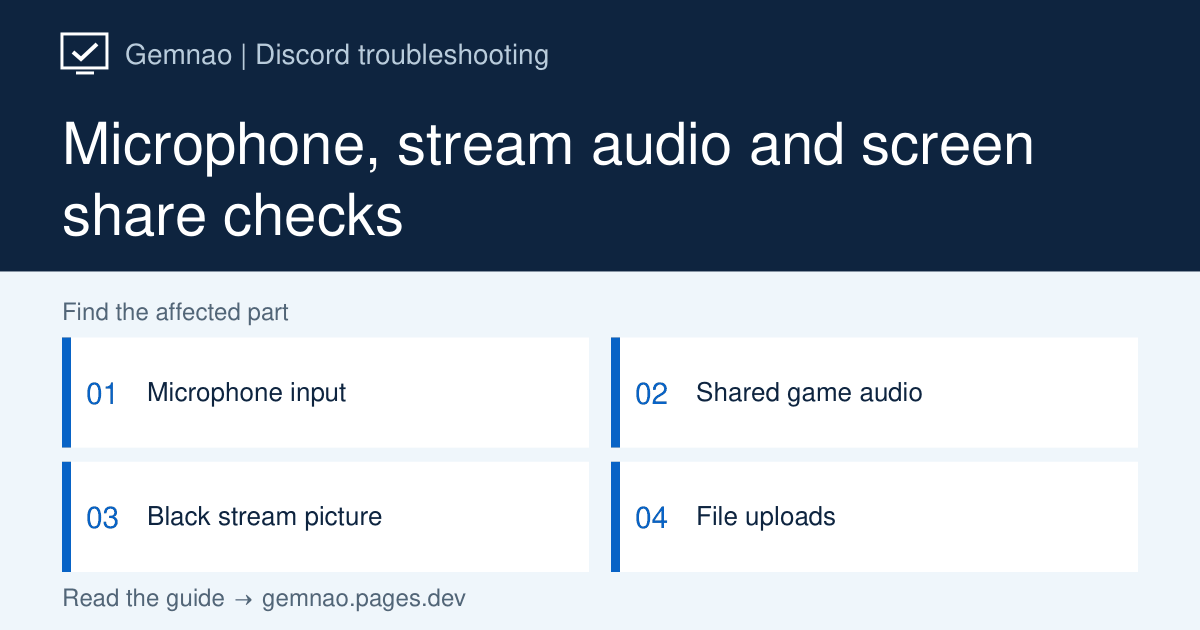
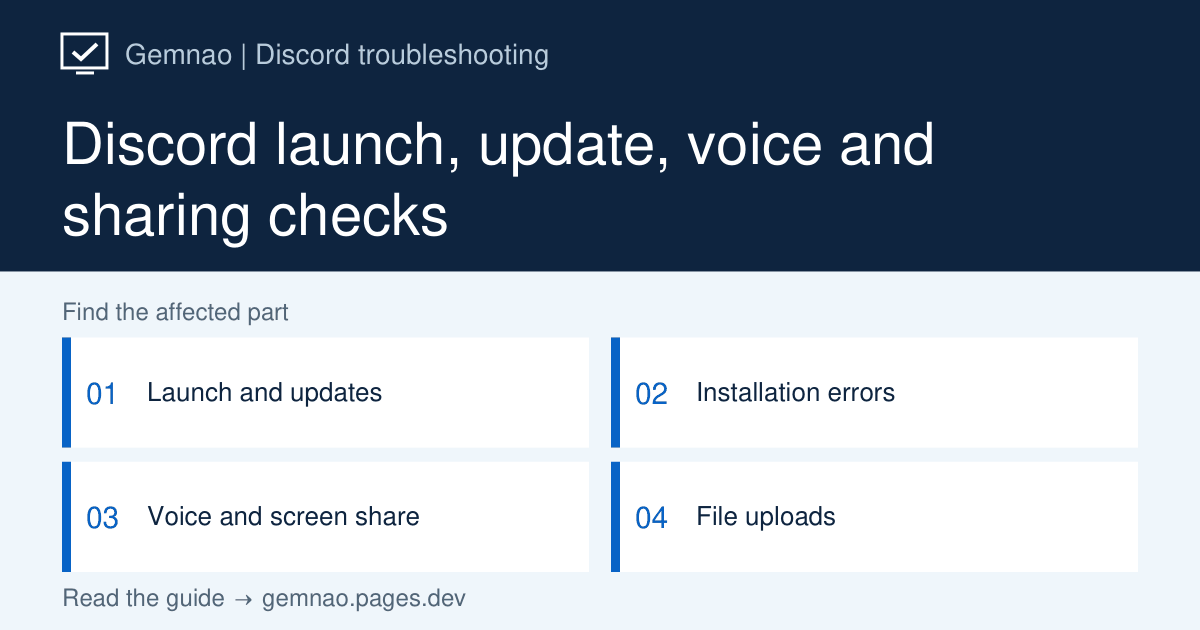
Add English Discord launch, loading and installer guides

diff --git a/lib/localized/discord-launch-en.ts b/lib/localized/discord-launch-en.ts
@@ -1,0 +1,200 @@
+import type { LocalizedArticle } from './types';
+const source = (id:string,label:string) => ({label,url:`https://support.discord.com/hc/en-us/articles/${id}`});
+const general=source('31623498041623-Discord-Troubleshooting-Guide','Discord: general troubleshooting and Cache location');
+const installer=source('209099387--Windows-Installer-Errors','Discord: Windows installer errors');
+const corrupt=source('115004307527--Windows-Corrupt-Installation','Discord: corrupt Windows installation');
+const status={label:'Discord Status: official service incidents',url:'https://discordstatus.com/'};
+const download={label:'Discord: official downloads',url:'https://discord.com/download'};
+const support={label:'Discord: contact support',url:'https://support.discord.com/hc/en-us/requests/new'};
+const step=(n:number,title:string,summary:string,actions:string[],note?:string)=>({id:`cause-${n}`,title,summary,time:'Compare one change before continuing',actions,...(note?{note}:{})});
+const row=(symptom:string,cause:string,n:number)=>({symptom,cause,stepId:`cause-${n}`});
+const link=(slug:string,label:string)=>({href:`/en/discord/${slug}`,label});
+const base={locale:'en' as const,gameSlug:'discord',gameName:'Discord',checkedAt:'2026-10-18',sourcePolicy:'English adaptation of the Japanese guide, retaining its comparison sequence, restoration and stopping conditions. Official Discord documentation was reviewed; the comparisons and log-reading examples are editorial guidance, not a claim of a reproduced fault or a guaranteed repair. These Windows instructions concern the standard desktop client.'};
+export const discordLaunchEn: LocalizedArticle[] = [
+{
+ ...base,slug:'not-opening',title:'Discord Will Not Open on Windows: No Response, Immediate Exit or Gray Screen',shortTitle:'Discord will not open',
+ description:'Separate a hidden Discord process, an app-only launch fault, connection trouble and login errors. Preserve Cache before comparing and prepare sign-in access before reinstalling.',
+ lead:'For the Windows desktop app: clicking Discord does nothing, a window closes immediately, or the logo/gray screen never reaches your conversations.',
+ summary:'Fully quit Discord and launch once from Start. Compare actual conversations in the browser on the same PC. If only the app fails, preserve and rename its Cache folder before considering a reinstall. Follow the separate update or installation guide when an explicit error names that stage.',
+ quickFacts:[{label:'First check',value:'Quit remaining Discord processes and launch once from Start'},{label:'Useful comparison',value:'The same account’s conversations load at discord.com/app'},{label:'Before local reset',value:'Keep sign-in access and a recoverable copy of the targeted data'}],
+ diagnosis:[row('No window, but Discord remains in Task Manager','Quit the tray app and remaining identified Discord processes.',1),row('Window opens briefly, then the process disappears','Record the error/time and compare the browser.',2),row('Logo or gray screen never progresses','Test conversations in the browser; compare loading-specific checks.',2),row('Browser works; only the app fails','Preserve and rename Cache after fully quitting.',3),row('Neither app nor browser loads conversations','Check service status, other sites and login errors before uninstalling.',2),row('Update Failed or Installation has failed appears','Use the guide for the exact stage and message.',5),row('Security notification appears at launch','Inspect its time, file and detection instead of guessing.',4)],
+ steps:[
+ step(1,'Fully quit and check a fresh launch route','Closing a window can leave Discord running. A Start-menu launch also helps separate an old shortcut.',[
+ 'If Discord appears in the Windows notification area, including hidden icons, right-click it and quit. Warn anyone in an active call/stream first because quitting disconnects it.',
+ 'Open Task Manager with Ctrl+Shift+Esc. Under Processes, end remaining entries you have identified as Discord.',
+ 'Once Discord is gone, wait about 30 seconds, find Discord in Start and open it once. Check whether conversations load, not just whether a window appears.',
+ 'If Start works, use that route and replace the obsolete shortcut. Otherwise save work, restart Windows, try once again and continue to Step 2.',
+ ],'Do not end every Update.exe or similarly named process by name alone. This initial check targets entries positively identified as Discord.'),
+ step(2,'Compare the browser, connection and sign-in stage','A public landing page loading is not the same as the account’s conversations loading.',[
+ 'Open https://discord.com/app in Edge or Chrome on the same PC. Verify the official domain before signing in, then inspect the conversation list.',
+ 'If conversations open, the browser can provide temporary access while you investigate the desktop app in Step 3.',
+ 'If the browser also stalls, check Discord Status and try another website. When a relevant incident is reported, recheck after recovery.',
+ 'If other sites fail too, investigate the connection first. If only Discord fails, an empty status page still does not prove the PC is the cause.',
+ 'If the failure is at email, password or authentication-code entry, use the login guide. For a persistent logo or gray screen, also use the loading-stuck comparison.',
+ ],'A working browser narrows the next checks; it does not prove the desktop Cache is corrupt.'),
+ step(3,'Preserve Cache and compare only an app-specific failure','Renaming the documented Cache folder keeps the comparison reversible. It is not a full data-folder or account reset.',[
+ 'Fully quit Discord as in Step 1. Press Windows+R, enter %APPDATA%/discord and open it.',
+ 'Rename only Cache to a unique name such as Cache.backup-20261018, using your work date. If it is absent, do not create it or target an unrelated folder.',
+ 'Launch Discord and check conversations. If it works, quit and reopen to confirm another normal launch.',
+ 'To restore, quit Discord, move or rename any newly generated Cache separately, then return the preserved folder to the exact name Cache. Do not overwrite or mix the contents.',
+ 'If renaming fails, check for a remaining Discord process and retry after a restart. If access is still denied, record it and continue to Step 4 without changing ownership or forcing deletion.',
+ ],'Confirm access to your email, password and two-factor authentication first in case sign-in is required. Server membership/messages and local settings/session state are different. Keep the backup private until stable operation is confirmed.'),
+ step(4,'Inspect a matching block notification','Failure to open is not proof that security software blocked the app.',[
+ 'In Windows Security → Virus & threat protection → Protection history, look for events near the failed launch time. For another security product, inspect its own history.',
+ 'Record the affected path, detection and action. Do not release quarantine or add exclusions merely because the filename contains Discord.',
+ 'If the installer came from an unofficial site, stop using it and obtain the official download. If the official file is detected too, consult the security provider or administrator.',
+ 'If there is no matching record and Cache preservation made no difference, continue to Step 5. On a managed PC, check installation/execution permission with its administrator.',
+ ]),
+ step(5,'Prepare sign-in access before reinstalling','Use this later step when the app still fails after the earlier comparisons. Follow a specific error guide if the failed stage changes.',[
+ 'Confirm email/password and two-factor authentication or backup-code access. Keep an already signed-in phone or other device signed in.',
+ 'Uninstall Discord through Windows Settings → Apps → Installed apps, or Apps & features on Windows 10.',
+ 'With Discord closed, use Windows+R → %APPDATA% and then %LOCALAPPDATA% to inspect the remaining Discord folder in each location.',
+ 'If local data/settings need preserving, copy each target to a separate clearly named private location first. Following the official reinstall procedure, remove only the remaining Discord folders; never the entire AppData or Local folders.',
+ 'Restart Windows and reinstall from https://discord.com/download. Sign in, confirm conversations open, then quit and reopen once.',
+ 'For Update Failed, use the update guide; for Installation has failed, use the installer guide. If the app still closes immediately, record the crash conditions for the separate crashing guide.',
+ ],'Returning the entire old data folder can also return the fault. Reinstallation is not account/server deletion, but local preferences and sign-in state may need to be rebuilt.'),
+ ],
+ avoid:['Do not repeatedly launch overlapping copies or kill unrelated updater processes.','Do not reset all AppData, force ownership changes or disable security protection to bypass an unexplained block.'],
+ cautions:['For support, record the visible screen/error, time, browser result, each comparison and Windows version from winver.','Keep original backups/logs private; redact email addresses, Windows usernames and DM content in shared copies.','A working website alone is not a completed sign-in or conversation comparison.'],
+ faqs:[{question:'Should I run Discord as administrator first?',answer:'Start with a full quit and browser comparison. Official guidance mentions elevated execution for some cases, but it is not a universal fix. Limit it to an identified permission issue and consult the administrator on a managed PC.'},{question:'Does moving Cache delete messages or my account?',answer:'It is not an account, server-membership or sent-message deletion. Local session behavior may still change, so ensure you can sign in again before working on app data.'},{question:'Can I keep communicating while the app fails?',answer:'If the same account’s conversations work in the browser, use that temporarily. Calls also need the browser’s microphone permission and appropriate device settings.'},{question:'What if there is no Cache folder?',answer:'Skip that change. Do not create one or delete a different app’s similarly named data. Record its absence and continue using the browser comparison and exact error.'}],
+ sources:[general,installer,status],
+ related:[link('loading-stuck','Discord stuck loading'),link('update-failed','Update Failed and retry loops'),link('installation-failed','Installation has failed'),{href:'/discord/crashing',label:'Discord closes or crashes (Japanese)'},{href:'/discord/login-error',label:'Discord login errors (Japanese)'}],
+},
+{
+ ...base,slug:'loading-stuck',title:'Discord Stuck Loading: Compare the Browser Before Resetting the Windows App',shortTitle:'Discord stuck loading',
+ description:'Separate a logo or gray loading screen from account and connection failures. Compare conversations in the browser, fully quit the app, and preserve Cache before resetting it.',
+ lead:'For the Windows desktop app when the logo/spinner or a gray screen never reaches the server/chat list, including a stall after signing in.',
+ summary:'On the same PC and connection, check whether the same account’s conversations open in the browser. If the browser works, fully quit and reopen the app before preserving Cache. If both fail, check incidents and connectivity first. Screen color alone does not identify the cause.',
+ quickFacts:[{label:'Compare actual conversations',value:'A login screen or landing page alone is not enough'},{label:'Only the app fails',value:'Fully quit, restart, then compare preserved Cache if needed'},{label:'Both fail',value:'Check incidents and the same PC on another permitted connection'}],
+ diagnosis:[row('Logo stalls; browser conversations work','Does a complete app quit resolve it?',2),row('Gray screen; browser conversations work','Compare after a full quit, regardless of screen color.',2),row('Only the app still stalls after restart','Preserve Cache before comparing.',4),row('Neither app nor browser opens conversations','Check incidents, other sites and another connection.',3),row('App works; browser stalls','Compare a private window or another browser.',1),row('Update Failed or installation-corruption message','Record the exact message and use its specific guide.',5)],
+ steps:[
+ step(1,'Compare the same account in the browser','This tests a usable Discord session from the same connection, not the underlying reason for an app-only stall.',[
+ 'On the affected PC, open https://discord.com/app and, where possible, sign in to the same account as the desktop app. Verify the domain first.',
+ 'Check that the server/chat list loads and an existing conversation opens. A sign-in screen alone does not complete the comparison.',
+ 'If the browser works and only the app stalls, continue to Step 2. If both stall, continue to Step 3.',
+ 'If only the browser fails, compare a private window or another browser before inspecting extensions and stored site data. Keep sign-in access available before clearing anything.',
+ ],'If authentication prevents reaching conversations, mark the comparison unconfirmed. A gray screen or logo does not identify a particular cause.'),
+ step(2,'If the browser works, fully quit the app','Remaining background processes can survive a closed window.',[
+ 'In the Windows notification area, expand hidden icons if needed and quit Discord from its icon. This disconnects any call or stream.',
+ 'Open Task Manager with Ctrl+Shift+Esc and end remaining identified Discord processes.',
+ 'Reopen once and check the chat list. If normal loading returns, stop making changes.',
+ 'If it still stalls, save work and restart Windows. If only the app remains affected afterward, continue to Step 4.',
+ ]),
+ step(3,'If both fail, check the service and connection','Resetting app Cache does not isolate a failure shared by the browser.',[
+ 'Check https://discordstatus.com/ for a relevant incident and wait for recovery if one matches. No posted incident does not rule out an unreported or local connection issue.',
+ 'Open another website in the same browser. If other sites fail, inspect the PC’s Wi-Fi/router/connection first.',
+ 'If available and permitted, compare the same PC on another connection such as your own hotspot. Consider data costs, then return to the original network. Success only elsewhere points toward the original connection or restrictions.',
+ 'If other sites work but Discord does not, check Windows Settings → Time & language → Date & time for automatic time, and inspect VPN/proxy/firewall restrictions affecting Discord. Record existing settings and avoid changing multiple variables.',
+ ],'Do not bypass company/school restrictions or leave protection disabled. Ask the administrator about managed settings and restore any unhelpful personally controlled comparison.'),
+ step(4,'If only the app stalls, preserve Cache','Use this after a full app quit and Windows restart have failed to help the app-only symptom.',[
+ 'Fully quit Discord as in Step 2 and confirm its processes are gone. Keep email/password and two-factor authentication available in case another sign-in is needed.',
+ 'Open Windows+R and enter %APPDATA%/discord. Record this path and the intended backup name.',
+ 'Rename only Cache to an unused name such as Cache_before_loading_fix. If it is absent, do not create it or delete a different folder.',
+ 'Reopen and inspect conversations. To undo an unhelpful result, quit again, keep the newly generated Cache separately and restore the old folder’s exact name without mixing or overwriting contents.',
+ ],'This does not reset every file outside Cache. Keep the original private until testing is complete and distinguish it from the entire Discord settings folder.'),
+ step(5,'Follow explicit update or corruption errors','A named update/installation error needs its own comparison path.',[
+ 'Record the exact displayed error and time it appeared.',
+ 'For Update Failed, use the linked update-loop guide to compare update connectivity and processes.',
+ 'If installation corruption is explicitly reported, review Discord’s corrupt-installation instructions and the installer guide before reinstalling. Removing whole app-data folders is a different, wider operation than preserving Cache and requires sign-in preparation.',
+ ]),
+ ],
+ avoid:['Do not infer a cause from screen color or a working login page.','Do not delete the entire Discord folder as the first Cache test or disable network protection to bypass a restriction.'],
+ cautions:['If both clients still fail on another connection, retain the incident/login observations for support.','If only the app fails, include Windows version, exact error and full-quit/Cache results. Mark unavailable comparisons as unconfirmed.','Redact personal details in screenshots and keep preserved app data private.'],
+ faqs:[{question:'Do a logo screen and a gray screen need different fixes?',answer:'Their colors do not identify the cause. First compare actual browser conversations on the same PC. A browser-only success leads to app checks; failure in both leads to incident/connection checks.'},{question:'Does the browser login screen prove the desktop app is broken?',answer:'No. Reach the server/chat list and a conversation before treating it as a successful session. If sign-in fails, record the authentication error and leave the comparison unconfirmed.'},{question:'Will preserving Cache remove servers or messages?',answer:'This targets the Windows app’s Cache folder, not account or server/message deletion. Keep the preserved folder until testing finishes, and do not confuse it with the complete app-data directory.'}],
+ sources:[general,source('115001130052-Stuck-on-the-Main-Connecting-Screen','Discord: stuck on the connecting screen'),corrupt,status],
+ related:[link('update-failed','Update Failed comparisons'),link('installation-failed','Installation failures'),{href:'/discord/login-error',label:'Login errors (Japanese)'},link('not-opening','Discord will not open')],
+},
+{
+ ...base,slug:'update-failed',title:'Discord Update Failed or Retry Loop: Check Connectivity Before Reinstalling',shortTitle:'Update Failed and update loops',
+ description:'Compare the same PC’s browser, official download and another permitted connection. Identify Discord updater processes and prepare sign-in access before removing app remnants.',
+ lead:'For the standard Windows desktop client repeatedly showing Update Failed. Reaching a login screen means that update stage progressed; an authentication error needs separate checks.',
+ summary:'Check official incidents and actual browser conversations before deleting anything. Compare the official download and the same PC on another connection if available. If only the app still fails after a full quit/restart, reinstall only after confirming a usable official installer and sign-in access.',
+ quickFacts:[{label:'Browser works?',value:'This does not establish that update traffic also works'},{label:'Another connection helps?',value:'Investigate the original network; stop reinstall attempts'},{label:'Before cleanup',value:'Official installer available, recovery/sign-in ready, exact folders identified'}],
+ diagnosis:[row('A reported incident matches the timing/symptom','Pause local deletion and retry after recovery.',1),row('Browser works but update fails','Compare official installer retrieval and another connection.',2),row('Browser or download also fails','Inspect connection, VPN and block notifications first.',2),row('The same PC updates on another connection','Investigate the original network; no folder cleanup is needed.',2),row('Only the app fails on both connections','Fully quit identified Discord/updater processes.',3),row('Full quit fails; official download works','Prepare sign-in access before scoped cleanup.',4)],
+ steps:[
+ step(1,'Check incidents and browser conversations before deleting files','Record the update screen and time first. A working browser can also provide temporary access.',[
+ 'Check https://discordstatus.com/ for an incident matching the symptom and time. Retry after its recovery if applicable. No matching incident does not establish that every connection path works.',
+ 'On the same PC and connection, open https://discord.com/app. Confirm channels and existing conversations load after signing in, not just the public page.',
+ 'If the browser works, record it and continue to Step 2. Browser sessions and the updater use different operations; browser success is not proof of corrupt app files or healthy update traffic.',
+ 'Separate email/password/authentication-code failures from connection problems. Use the login guide and leave already signed-in devices signed in.',
+ ]),
+ step(2,'Compare the download and update on the same PC','Changing both device and network at once makes results harder to interpret.',[
+ 'Try saving the Windows installer from https://discord.com/download. Check that the download completes, not merely that its page opens. You do not need to run it or delete anything yet.',
+ 'If you use a personally controlled VPN, record its state and compare temporarily without it where permitted. Do not change managed workplace/school restrictions; ask the administrator.',
+ 'If available, connect the same PC to a permitted alternative such as your own hotspot and compare the update. Account for data use, then return to the original network/settings. If unavailable, record this comparison as unconfirmed.',
+ 'If updating works only on the other connection, stop reinstalling and inspect the original connection, VPN or restrictions. A browser-only success still leaves update-specific connectivity as a possibility.',
+ 'If only the app fails on both connections, continue to Step 3. If the official download also fails, retain the browser error or security notification and resolve access before removing the app.',
+ ],'Do not start with blanket security disablement, DNS changes or network resets. Inspect the actual file/reason in any block record rather than bypassing it.'),
+ step(3,'Fully quit identified Discord and updater processes','A closed window can leave processes in the notification area or Task Manager.',[
+ 'Quit Discord from its notification-area icon, including hidden icons if necessary. This ends ongoing calls/streams.',
+ 'Open Task Manager with Ctrl+Shift+Esc and end remaining Discord processes. If Update.exe appears, use Open file location to confirm it belongs to the Discord folder before ending that specific process.',
+ 'Launch Discord once from Start. Check whether it repeats Update Failed or advances to a normal/login screen. If it advances, folder cleanup is unnecessary.',
+ 'If unchanged, save work, restart Windows and compare again. If it still fails, meet the preparation conditions in Step 4 before reinstalling.',
+ ]),
+ step(4,'Reinstall only after the prerequisites are met','Use this after full quit/restart fails, with no relevant incident awaiting recovery and a completed official download. An unavailable network comparison remains unconfirmed, not a passed test.',[
+ 'Confirm email, password and two-factor authentication or backup-code access. Record voice/keybind settings if accessible; otherwise expect that local settings may need recreating. Preserve needed local data privately before cleanup.',
+ 'Fully quit Discord and close the browser Discord tabs used for comparison. An already signed-in phone or other device can remain signed in.',
+ 'Use Windows+R → %APPDATA% and remove only the identified Discord folder there after preservation. Repeat for the Discord folder inside %LOCALAPPDATA%. Never remove the whole AppData or Local directory.',
+ 'Skip a target that does not exist. For an in-use message, return to the process check. For access denied, record the exact path/message and seek administrator or security-provider help; do not force ownership changes or deletion.',
+ 'Restart Windows and run the installer obtained from the official source. Sign in, open a channel, then quit and reopen to check that the update loop does not return.',
+ ],'Official remnant cleanup concerns installer/corruption recovery. It is not account deletion, but it can rebuild local settings/session state. Do not guess alternate-client folder names or restore a whole old folder indiscriminately.'),
+ step(5,'If failure remains, record the stage and comparison results','Repeatedly deleting the same data adds little evidence.',[
+ 'If running DiscordSetup.exe produces Installation has failed, use the installer-specific guide. That is a different stage from an update retry loop.',
+ 'For another Update Failed loop, record time, Windows version, browser result, official-download result, alternate-network result, full quit and reinstall results. Mark tests you could not perform as unconfirmed.',
+ 'If the error offers a log-opening action, preserve the original and prepare a redacted copy for official support. Remove private usernames/paths and secret URL values; never send passwords or authentication codes.',
+ ]),
+ ],
+ avoid:['Do not rename Update.exe or end another app’s updater solely because the name matches.','Do not remove the current app before obtaining a usable official installer and sign-in access.'],
+ cautions:['A useful support record distinguishes the original network, browser, download and alternate-network results without claiming unavailable tests passed.','Keep any preserved local data private. If the error changes to authentication or installation, change the troubleshooting path instead of repeating cleanup.'],
+ faqs:[{question:'Does a working browser prove the connection is fine?',answer:'It proves some Discord session functions are reachable, not that updater traffic also works. Compare a completed official download and, if available, updating the same PC on another permitted connection.'},{question:'How many minutes should I wait?',answer:'There is no universal timeout. Observe whether progress changes or the same failure repeatedly retries. For a relevant incident, follow recovery information; for a loop, use the comparisons before deleting files.'},{question:'Should I rename Update.exe?',answer:'This procedure does not. Other applications can use that name too. Even when ending a process, identify its location first rather than substituting a filename change for diagnosis.'},{question:'Does cleanup remove my servers or messages?',answer:'Removing local app folders is not deleting the account or servers. Local preferences and sign-in state may be rebuilt, so prepare authentication access and preserve needed data before cleanup.'}],
+ sources:[installer,corrupt,status,download,support],
+ related:[link('installation-failed','Installation has failed'),link('not-opening','Discord will not open'),link('loading-stuck','Loading-screen comparisons'),{href:'/discord/login-error',label:'Login errors (Japanese)'}],
+},
+{
+ ...base,slug:'installation-failed',title:'Discord Installation Has Failed: First Install, Reinstall and Setup Log Checks',shortTitle:'Installation has failed',
+ description:'Identify the failed installation stage, preserve the current Setup Log, distinguish missing/in-use/access-denied folders, and verify a normal launch after reinstalling Discord.',
+ lead:'For the standard Windows installer when DiscordSetup.exe reports Installation has failed or reinstallation cannot finish. A launch-time Update Failed loop has a separate guide.',
+ summary:'For a first install, check the official download and compare after restarting. For a reinstall, preserve sign-in access and fully quit Discord. Save the current log before scoped cleanup, skip absent folders and treat in-use versus access-denied messages separately. Confirm conversations and a second launch before calling the installation complete.',
+ quickFacts:[{label:'Identify the stage',value:'Download failure, execution block and installer error are different'},{label:'Before cleanup',value:'Preserve this attempt’s log and sign-in access'},{label:'Missing folder?',value:'Skip it; do not create a replacement or delete another folder'}],
+ diagnosis:[row('First installation; never launched successfully','Verify the official download and retry after a restart.',1),row('Previously installed or reinstalling after removal','Prepare sign-in access and fully quit remaining processes.',2),row('One or both Discord folders are missing','Skip cleanup for absent targets.',4),row('Cleanup reports a file in use','Check remaining processes/startup before retrying.',4),row('Cleanup reports access denied','Record it and inspect permission/block evidence; do not force removal.',4),row('Same error after restart/reinstall','Read the current attempt’s log and surrounding context.',3)],
+ steps:[
+ step(1,'For a first install, identify the source and failed stage','Download failure, an execution block and an installer’s own error need different observations.',[
+ 'Obtain the Windows installer from https://discord.com/download. If saving it does not finish, inspect the connection/browser error first; do not proceed to app-data deletion.',
+ 'Record the exact screen and time. If Windows or a security product blocks execution, inspect its notification rather than disabling protection broadly.',
+ 'Save open work, restart Windows and run the official installer once. If Discord opens normally, verify the result in Step 5.',
+ 'If Installation has failed returns, preserve the log in Step 3 before cleanup in Step 4. Even a first failed attempt may have created some files; their presence alone does not establish corruption.',
+ ]),
+ step(2,'For a reinstall, prepare sign-in access and fully quit','Old processes can prevent files being replaced even after their window closes.',[
+ 'Confirm email/password and two-factor authentication or backup-code access. Record voice/keybind settings if accessible, and preserve needed local data privately. Keep other already signed-in devices signed in.',
+ 'Quit Discord from its notification-area icon. Open Task Manager with Ctrl+Shift+Esc and end remaining identified Discord processes.',
+ 'For an Update.exe process, use Open file location and confirm it is inside the Discord installation before ending it. Do not stop another application’s updater on name alone.',
+ 'Retry the installer. If it fails, save this attempt’s log in Step 3. Close browser Discord tabs before the local cleanup in Step 4.',
+ ]),
+ step(3,'Read the current Setup Log with its surrounding context','The last line or a single error word is not enough to establish the cause. The following terms are examples, not guaranteed output.',[
+ 'If the error screen offers Open Setup Log, open it and save a separate copy. If the button is absent or fails, preserve the screen/time and record that the log was unavailable. Do not delete files at a guessed log path.',
+ 'Find the time of the current attempt, often near the end. Keep old and current attempts separate. If timestamps are unclear, retain the newly captured log and the time of the error screenshot.',
+ 'Search for terms such as Error, Exception or failed using a text editor’s Find. Read the surrounding operations; roughly 10–20 nearby lines can be an initial excerpt, extending it to include a related exception’s continuation.',
+ 'Access is denied or UnauthorizedAccessException suggests inspecting permission/block records; being used by another process suggests the named in-use target; download or timeout suggests connection-related context. These are leads, not diagnoses.',
+ 'Record the affected file/path, full error and preceding operation. If you do not understand it, retain it unchanged for support instead of editing settings based on a keyword.',
+ ],'Keep the original private and redact a sharing copy: Windows username, email, device name, private folders and token-like URL values. Never send passwords or authentication codes. Preserve useful error names and the non-private Discord path structure.'),
+ step(4,'Separate absent, in-use and access-denied targets','The official targets are the Discord folders under AppData and LocalAppData. Save the log and prepare sign-in access plus a usable official installer first.',[
+ 'Open Windows+R → %APPDATA% and identify its Discord folder. Then inspect %LOCALAPPDATA% for the separate Discord folder. Preserve needed local data outside these targets before removal.',
+ 'With Discord fully closed, remove only the existing identified Discord folders. Skip either location if absent. Do not create an empty replacement or remove AppData, Local or another application’s folder.',
+ 'For an in-use message, return to Step 2. If Discord automatically opens after a restart, temporarily disable only its startup entry in Task Manager, record the original state and compare after restarting.',
+ 'For access denied, record the exact message/path and inspect security notifications or protection history. Ask the administrator on a managed PC. Do not force deletion or change ownership to bypass it.',
+ 'After the scoped cleanup succeeds, restart Windows and run the official installer. If cleanup cannot be completed, record that state and move to support in Step 5 instead of repeatedly forcing it.',
+ ]),
+ step(5,'Verify a usable session and another launch','An installer window disappearing is not sufficient evidence of success.',[
+ 'Open Discord, sign in and confirm channels and existing conversations load. Quit and reopen; verify the same installation error does not return.',
+ 'Restore the startup preference if you temporarily changed it and still want automatic launch. Review voice devices and key bindings too.',
+ 'If the app reaches sign-in but authentication fails, use the login guide. If the new error is Update Failed, use the update guide. Do not keep deleting files as though the stage had not changed.',
+ 'If the same error persists, give official support the first-install/reinstall context, Windows version, source, time, target-folder presence, full-quit/restart results and redacted current log.',
+ ]),
+ ],
+ avoid:['Do not force ownership changes or delete unrelated folders when a target is missing or access is denied.','Do not download an unfamiliar log collector, share raw private logs or infer a cause from one Error line.'],
+ cautions:['For support, an example format is: first install/reinstall, official source, result after restart, each target folder present/absent, failure time and relevant log context. Replace examples with your actual results.','Reinstallation is not account/server deletion, but local settings and sessions can change. Preserve authentication access first.'],
+ faqs:[{question:'Why is there a Discord folder on a first install?',answer:'A failed attempt may have written partial data. Presence alone is not proof of corruption. Save this attempt’s log before inspecting the exact target.'},{question:'Neither target folder exists. What should I remove?',answer:'Nothing from those locations. Skip that cleanup, use the official installer and inspect the current error/log. Do not create empty folders or find unrelated data to delete.'},{question:'What if Open Setup Log is missing or will not open?',answer:'Keep the error screen, time, first-install/reinstall context and steps tried. Report the log as unavailable; an unfamiliar collection tool is not required.'},{question:'Does an Error line identify the root cause?',answer:'Not necessarily. It may be a consequence or belong to an older attempt. Read the current timestamp and surrounding operations before deciding what to inspect.'},{question:'Does removing local Discord data delete my account?',answer:'It is not account or server deletion. Local preferences and sign-in state may be rebuilt, so confirm your authentication methods and preserve needed data before the operation.'}],
+ sources:[installer,corrupt,download,support],
+ related:[link('update-failed','Update loops'),link('not-opening','Discord will not open'),{href:'/discord/login-error',label:'Login errors (Japanese)'}],
+},
+];

diff --git a/lib/og-cards.ts b/lib/og-cards.ts
@@ -1,3 +1,4 @@
+import { discordLaunchEn } from '@/lib/localized/discord-launch-en';
 import { translatedCommonGuides } from '@/lib/localized/save-guides-zh-es';
 import { guideUi } from '@/lib/localized/guide-ui';
 import { palworldBackupEn } from '@/lib/localized/palworld-backup-en';
@@ -239,6 +240,7 @@ export function ogCardSpecs(): OgCardSpec[] {
       ...rocketLeagueLocalizedArticles,
       ...localizedDiscordUploadArticles,
       ...discordCoreEn,
+      ...discordLaunchEn,
       ...followupLocalizedArticles,
     ].map((article) => ({
       path:
@@ -350,7 +352,7 @@ export function ogCardSpecs(): OgCardSpec[] {
         'Low FPS and stuttering',
       ],
     },
-    { path: '/en/discord', locale: 'en' as const, eyebrow: 'Discord troubleshooting', title: 'Microphone, stream audio and screen share checks', itemsLabel: 'Find the affected part', items: ['Microphone input', 'Shared game audio', 'Black stream picture', 'File uploads'] },
+    { path: '/en/discord', locale: 'en' as const, eyebrow: 'Discord troubleshooting', title: 'Discord launch, update, voice and sharing checks', itemsLabel: 'Find the affected part', items: ['Launch and updates', 'Installation errors', 'Voice and screen share', 'File uploads'] },
     { path: '/en/guide', locale: 'en' as const, eyebrow: 'PC game troubleshooting', title: 'Find your next PC game check', itemsLabel: 'Choose your symptom', items: ['Launch and file repair', 'Crashes and black screens', 'GPU drivers', 'Low FPS and stutter'] },
     ...(['zh','es'] as const).map(locale => ({path:`/${locale}/guide`,locale,eyebrow:guideUi[locale].index,title:guideUi[locale].indexTitle,itemsLabel:guideUi[locale].read,items:translatedCommonGuides.filter(g => g.locale === locale).map(g => g.shortTitle)})),
     ...translatedCommonGuides.map(g => ({path:`/${g.locale}${g.path}`,locale:g.locale,eyebrow:g.category,title:g.title,itemsLabel:guideUi[g.locale].read,items:g.steps.map(s => s.title)})),

diff --git a/components/english-discord-index.tsx b/components/english-discord-index.tsx
@@ -4,7 +4,7 @@ import { localizedDiscordArticles } from '@/lib/localized/index';
 export const discordIndexEn = {
   title: 'Discord Troubleshooting Guides',
   description:
-    'Find an English Discord guide for a microphone that will not transmit, missing stream audio, a black shared screen or failed uploads. Start with the affected device, viewer and channel.',
+    'Find an English Discord guide for launch, loading and update failures, installation errors, microphone input, missing stream audio, black shared screens and uploads. Start with the affected device, viewer and channel.',
   checkedAt: '2026-10-18',
 };
 export function EnglishDiscordIndex() {
@@ -43,7 +43,7 @@ export function EnglishDiscordIndex() {
         <p className="page-kicker">DISCORD TROUBLESHOOTING</p>
         <h1>{discordIndexEn.title}</h1>
         <p className="page-lead">
-          Identify which part fails before changing settings: your input, shared
+          Identify which part fails before changing settings: launch, sign-in, update, your input, shared
           application audio, the actual viewer’s picture or an attachment. These{' '}
           {articles.length} English guides use official sources and one-change
           comparisons.

diff --git a/lib/localized/index.ts b/lib/localized/index.ts
@@ -1,3 +1,4 @@
+import { discordLaunchEn } from './discord-launch-en';
 import { translatedCommonGuides } from './save-guides-zh-es';
 import { palworldBackupEn } from './palworld-backup-en';
 import { discordCoreEn } from './discord-core-en';
@@ -43,7 +44,7 @@ export const localizedPcArticle = (locale: Locale, slug: string) =>
     (article) => article.locale === locale && article.slug === slug,
   );
 
-export const localizedDiscordArticles = [...localizedDiscordUploadArticles, ...discordCoreEn];
+export const localizedDiscordArticles = [...localizedDiscordUploadArticles, ...discordCoreEn, ...discordLaunchEn];
 export const localizedDiscordArticle = (locale: Locale, slug: string) =>
   localizedDiscordArticles.find(
     (article) => article.locale === locale && article.slug === slug,

diff --git a/lib/og-image-manifest.ts b/lib/og-image-manifest.ts
@@ -37,10 +37,14 @@ export const ogImageManifest: Record<string, string> = {
   "/discord/user-volume-low": "31161b2c",
   "/discord/voice-client-outdated": "553431b2",
   "/discord/voice-cutting-out": "e483fd4c",
-  "/en/discord": "9ec067bd",
+  "/en/discord": "b839a8d6",
+  "/en/discord/installation-failed": "6f2891f1",
+  "/en/discord/loading-stuck": "dd1b3436",
   "/en/discord/mic-not-working": "5c18f197",
+  "/en/discord/not-opening": "de90f2d9",
   "/en/discord/screen-share-black-screen": "4888b8c0",
   "/en/discord/stream-no-audio": "d21133c2",
+  "/en/discord/update-failed": "ac958f48",
   "/en/discord/upload-failed": "c6dafbcd",
   "/en/examples/wilds-steam-added-dll": "bde0656a",
   "/en/games/ace-combat-8/connection-after-time-sync": "7289c23f",

diff --git a/lib/localized/discord-upload-articles.ts b/lib/localized/discord-upload-articles.ts
@@ -36,12 +36,12 @@ export const localizedDiscordUploadArticles: LocalizedArticle[] = [
     related: [
       { href: '/en/discord', label: 'All English Discord guides' },
       {
-        href: '/discord/loading-stuck',
-        label: 'Discord stuck loading (Japanese)',
+        href: '/en/discord/loading-stuck',
+        label: 'Discord stuck loading',
       },
       {
-        href: '/discord/not-opening',
-        label: 'Discord will not open (Japanese)',
+        href: '/en/discord/not-opening',
+        label: 'Discord will not open',
       },
     ],
     quickFacts: [

diff --git a/scripts/check-localized-pages.tsx b/scripts/check-localized-pages.tsx
@@ -75,7 +75,7 @@ assert.equal(hasTranslation('zh', '/guide'), true);
 assert.equal(hasTranslation('es', '/guide'), true);
 for (const guide of indexGuides) assert.ok(guideIndexHtml.includes(`href="/en${guide.path}"`));
 check('/en/discord', 'en', renderToStaticMarkup(<EnglishDiscordIndex />));
-assert.equal(localizedDiscordArticles.filter(a => a.locale === 'en').length, 4);
+assert.equal(localizedDiscordArticles.filter(a => a.locale === 'en').length, 8);
 let pages = 2;
 for (const locale of locales) {
   check(

diff --git a/docs/english-discord-launch-review-2026-10-18.md b/docs/english-discord-launch-review-2026-10-18.md
@@ -1,0 +1,9 @@
+# 英語版：Discord起動・更新・インストール4件
+
+not-opening / loading-stuck / update-failed / installation-failed。Discord一覧8件、英語109/231・未対応122（配備前は実装数）。既存日本語のcause id、操作数、注意有無、診断分岐数、FAQ数と正規化出典をすべて照合。既存英語upload記事の関連記事2件を英語版へ更新。他言語は保持。
+
+Discord公式Troubleshooting Guide (31623498041623)、Windows Installer Errors (209099387)、Corrupt Installation (115004307527)、Stuck on the Main Connecting Screen (115001130052)の本文を取得確認。Cacheのみの退避と2か所のDiscord残存フォルダー整理を区別。公式にある一律保護無効化や古い互換モードを手順へ追加せず、元記事の保護維持・所有権変更や強制削除を避ける方針を保持。ブラウザ成功だけで更新通信正常とはしない。同じPCの別回線比較、Update.exeの実パス確認、ログイン手段と必要ローカルデータ保全、なし/使用中/アクセス拒否の分岐、元Cache復元と確認後再起動を残す。
+
+Setup Logの語句分類と前後10–20行は元記事の編集上の確認例であり、Discordが全環境で出す形式とは書かない。原本保全・共有用コピーの秘匿値削除・ログなし時は未確認を保持。実アカウント変更、実Discordインストール/削除、本番合成投稿はしていない。
+
+検証成功: localized241、対象lint、隔離全体strict型、production build。489静的HTML、468 sitemap、408OG、英語40記事1859内部リンク/アンカー、双方向metadata/menuと既存スペイン語版/中国語版回帰。Chromium 375/390/430/1440pxで一覧+4記事20組、検索16件、モバイルナビ、未翻訳10ルート404を確認。横スクロール・壊れたアンカー・JS例外・CSS/JS失敗・API書き込み0。OG4記事と一覧を生成。公開直接取得は既知CONNECT403のため親ブラウザ待ち。全体英語追加・全体QAは未完了。

diff --git a/docs/english-localization-backlog-2026-10-18.md b/docs/english-localization-backlog-2026-10-18.md
@@ -64,3 +64,7 @@
 ## 共通ガイド完了バッチ
 
 要件3件と設定ファイル初期化を追加し共通28/28。英語105/231、残126。初期CSVは保持。再集計でregistry/sitemap不一致0。Discord34、PC19、ゲーム記事45・ハブ4、gear1、tools2、index3、public7、trouble7、月間2・週刊2が未対応。sitemap外の保存/診断等UIと英語全体QAも残る。
+
+## Discord起動・更新バッチ
+
+既存4記事を追加してDiscord8/38・残30。英語109/231、未対応122。次候補はcant-hear-voice、audio-input-not-found、error-1001/1002/1003。公式エラーコード30952914470807は短いURLで取得失敗後、公式一般ガイドのリンクからフルURL本文を取得済み。候補はまだ翻訳/公開済み件数に含めない。
